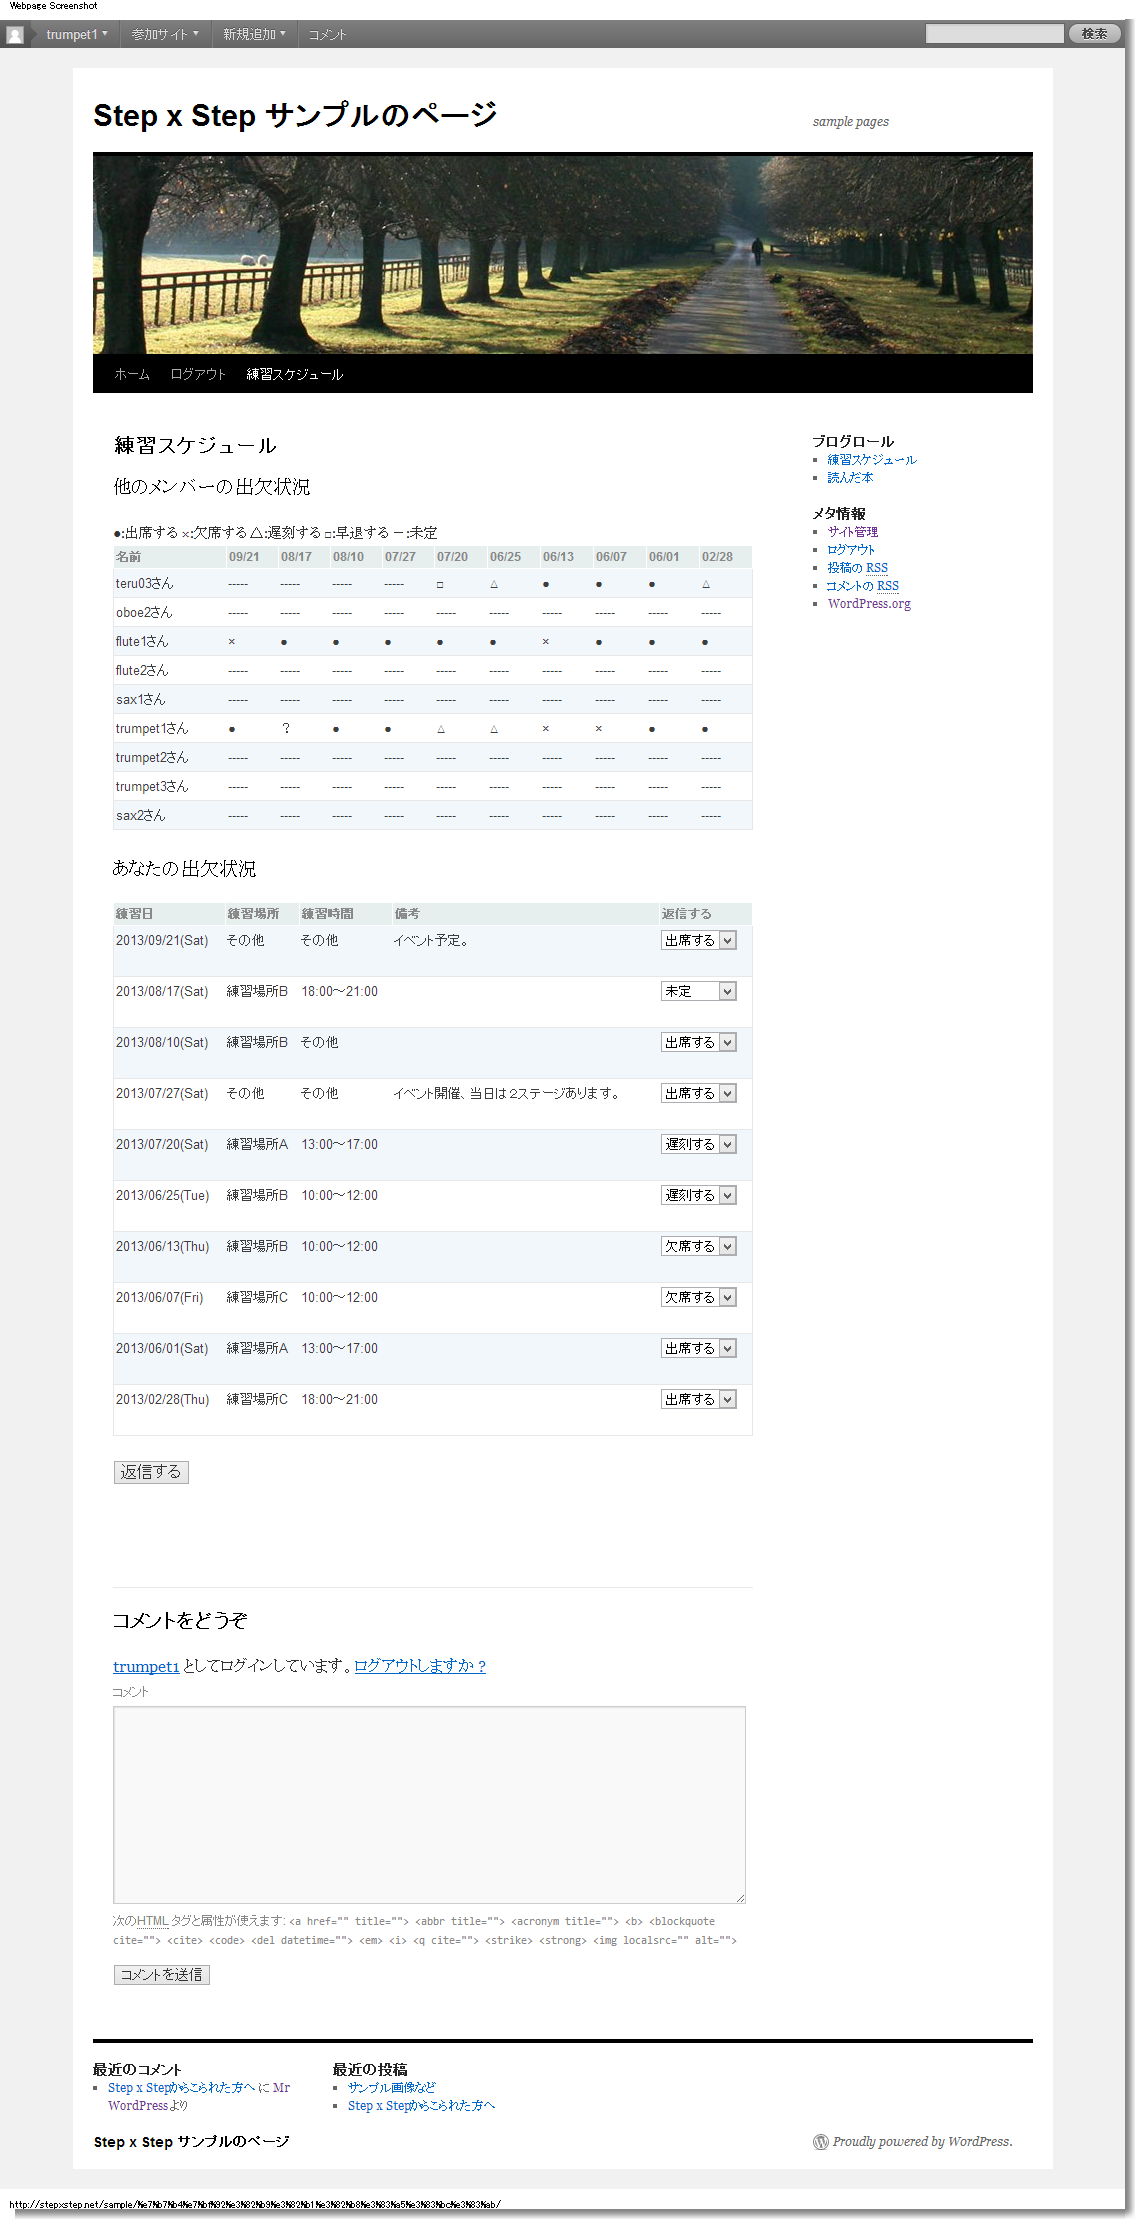
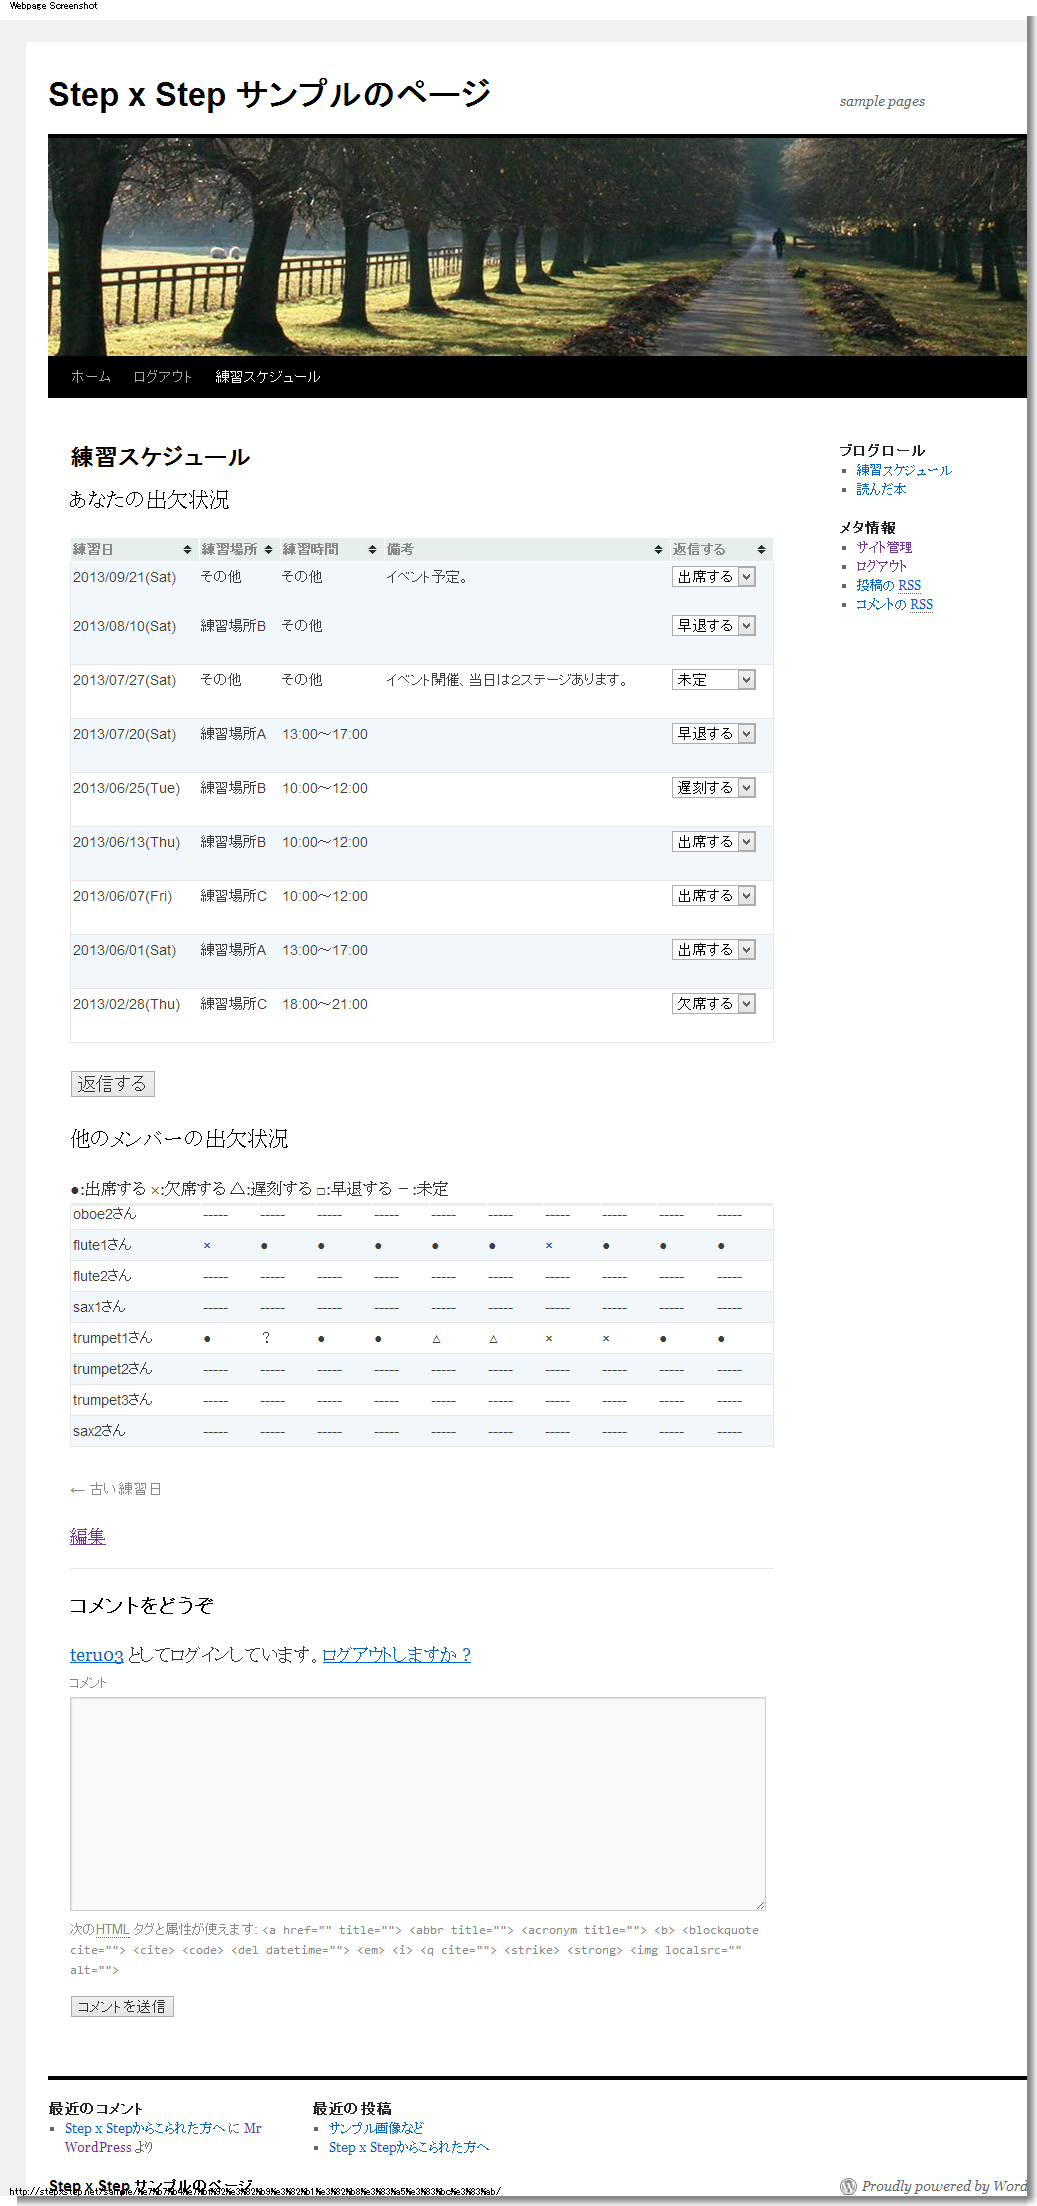
version 1.1.0
git-svn-id: https://plugins.svn.wordpress.org/lesson-scheduler/trunk@750095 b8457f37-d9ea-0310-8a92-e5e31aec5664

diff --git a/css/lesson_scheduler.css b/css/lesson_scheduler.css
@@ -88,3 +88,45 @@ table.tablesorter-2 thead tr .headerSortDown, table.tablesorter-2 thead tr .head
 background-color: #8dbdd8;
 }
 
+/* Navigation
+-------------------------------------------------------------- */
+
+.navigation {
+	color: #888;
+	font-size: 14px;
+	line-height: 18px;
+	overflow: hidden;
+}
+.navigation a:link,
+.navigation a:visited {
+	color: #888;
+	text-decoration: none;
+}
+.navigation a:active,
+.navigation a:hover {
+	color: #ff4b33;
+}
+.nav-previous {
+	float: left;
+	width: 50%;
+}
+.nav-next {
+	float: right;
+	text-align: right;
+	width: 50%;
+}
+#nav-above {
+	margin: 0 0 18px 0;
+}
+#nav-above {
+	display: none;
+}
+.paged #nav-above,
+.single #nav-above {
+	display: block;
+}
+#nav-below {
+	margin-top: 20;
+}
+
+

diff --git a/lesson_scheduler_mobile.php b/lesson_scheduler_mobile.php
@@ -1,0 +1,156 @@
+<?php
+
+function disp_lesson_scheduler_mobile() {
+
+
+	//クエリーによりカスタム投稿読み込み
+	
+	//1度に10件表示
+	$lesson_schedule_per_page = 10;
+	
+	//複数ページの場合に、選択されたページを取得
+	$paged = get_query_var('paged');
+	query_posts( "posts_per_page=$lesson_schedule_per_page&paged=$paged&post_type=lesson_schedules&orderby=meta_value&meta_key=lesson_schedule_field1" );
+	
+	global $wp_query;
+	
+	//記事があれば投稿データをロード（表示はしない） 
+ 	if ( have_posts() ){ 
+		the_post(); 
+	}
+	else{
+		echo _e('NOT FOUND','lesson-scheduler');
+	}
+
+	/* 投稿を巻き戻し */
+	rewind_posts();
+
+?>
+<form action="" method="POST">
+<dl>
+	<!-- タイトルの表示 -->
+	<h3><?php _e('schedule','lesson-scheduler') ?></h3>
+	<hr>
+	<!-- 練習ループ -->
+	<?php while ( have_posts() ){
+	
+	 	the_post();
+
+		$cu = wp_get_current_user();
+
+		//送信ボタンが押されたかつ、その時のIDと同一ならば登録
+		if ($_POST['syuketu'.get_the_ID()] != '' && strcmp( $_POST['id'.get_the_ID()], get_the_ID()) == 0 ) {
+			delete_post_meta( get_the_ID(),  $cu->user_login ); 
+			update_post_meta( get_the_ID(),  $cu->user_login, $_POST['syuketu'.get_the_ID()]);
+		}
+
+		$post = get_post($post_id);
+		/* lesson_dateをキーとして、練習日を取得 */
+	    $lesson_date = get_post_custom_values('lesson_schedule_field1',$post->ID);
+	    if( $lesson_date  ){
+
+			echo  date("y/m/d",strtotime($lesson_date[0]));
+			echo '(';
+			echo strftime( '%a', strtotime( $lesson_date[0] ) );
+			echo ')';
+	    	echo( '<br>');
+	    }
+
+		/* lesson_timeをキーとして、練習時間を取得 */
+	    $lesson_time = get_post_custom_values('lesson_schedule_field2',$post->ID);
+	    if( $lesson_time  ){
+            echo( $lesson_time[0] );
+	    	echo( '<br>');
+	    }
+	    
+		/* lesson_placeをキーとして、練習場所を取得 */
+	    $lesson_place = get_post_custom_values('lesson_schedule_field3',$post->ID);
+	    if( $lesson_place  ){
+            echo( $lesson_place[0] );
+	    	echo( '<br>');
+	    }
+	    /* remarksをキーとして、備考を取得 */
+	    $remarks = get_post_custom_values('lesson_schedule_field4',$post->ID);
+	    if( $remarks  ){
+            echo( $remarks[0] );
+	    	echo( '<br>');
+		}
+		
+	    ?><?php if(  is_user_logged_in() ) : ?>
+	    	<!--出欠状況 -->
+		    <td>
+				<select name="syuketu<?php echo get_the_ID() ?>" size="1">
+				<?php echo selectReply( get_the_ID(), $cu ); ?>
+				</select>
+
+				<input type="hidden" readonly="readonly" name="id<?php echo get_the_ID() ?>" value="<?php echo get_the_ID() ?>" />
+			</td>
+		<?php endif; ?><?php
+
+		//出席人数表示
+		dispAttendUser();
+
+	    echo('<hr>');
+
+	} ?>
+
+    <?php if(  is_user_logged_in() ) : ?>
+		<!-- 出欠ボタン -->
+		<BR><input type="submit" name="reply" value=<?php _e('reply','lesson-scheduler'); ?> /><BR>
+	<?php endif; ?>
+
+
+<!-- 前の記事と後の記事へのリンクを表示 -->
+<?php
+
+if ( $wp_query->max_num_pages > 1 ) : ?>
+	<BR>
+	<div id="nav-below" class="navigation">
+		<div class="nav-previous"><?php next_posts_link( __( '<span class="meta-nav">&larr;</span> Older lessons' ,'lesson-scheduler' ) ); ?></div>
+		<div class="nav-next"><?php previous_posts_link( __( 'Newer lessons <span class="meta-nav">&rarr;</span>' ,'lesson-scheduler' ) ); ?></div>
+	</div><!-- #nav-below -->
+	<BR>
+<?php endif; ?>
+
+</dl>
+
+<?php
+
+	wp_reset_query();
+
+}
+
+/* 出席者表示
+-----------------------------------------------------------*/
+function dispAttendUser(){
+
+	$attend = 0;
+	$absence = 0;
+	$late = 0;
+	$early = 0;
+	$undecided = 0;
+	
+	//全ユーザー情報の取得
+	$users = get_users_of_blog();
+	
+	foreach ( $users as $users ){
+
+		//出欠状況の出力
+		$value = get_post_meta(get_the_ID(), $users->user_login, true);
+		if( strcmp($value,"attend") == 0 ){
+			$attend++;	//出席
+		}elseif( strcmp($value,"absence") == 0 ){
+			$absence++;	//欠席
+		}elseif( strcmp($value,"late") == 0 ){
+			$late++;	//遅刻
+		}elseif( strcmp($value,"early") == 0 ){
+			$early++;	//早退
+		}elseif( strcmp($value,"undecided") == 0 ){
+			$undecided++;	//未定
+		}
+	}
+
+	echo "●:".$attend." ×:".$absence." △:".$late." □:".$early." ？:".$undecided;	
+}
+
+?>

diff --git a/lesson_scheduler.php b/lesson_scheduler.php
@@ -1,11 +1,11 @@
-<?php
+<?php
 /*
 Plugin Name: Lesson Scheduler
 Plugin URI: 
 Description: Just another lesson schedule manegement plugin. Simple UI and look.
 Author: Teruo Morimoto
 Author URI: http://stepxstep.net/
-Version: 1.0.0
+Version: 1.1.0
 */
 
 /*  Copyright 2013 Teruo Mormoto (email : terusun at gmail.com)
@@ -26,6 +26,8 @@ Version: 1.0.0
 	//設定画面処理用ファイル読み込み
 	include_once dirname( __FILE__ ) . '/lesson_scheduler_options.php';
 
+	//モバイル処理用ファイル読み込み
+	include_once dirname( __FILE__ ) . '/lesson_scheduler_mobile.php';
 
 /*  カスタム投稿タイプ（lesson scheduler）の登録
 -----------------------------------------------------------*/
@@ -199,7 +201,14 @@ function lesson_schedule_meta_update($post_id){
 -----------------------------------------------------------*/
 add_shortcode('lesson scheduler', 'disp_lesson_scheduler');
 function disp_lesson_scheduler($atts) {
-
+	if( chk_mobile() ){
+		disp_lesson_scheduler_mobile();
+	}
+	else{
+		disp_lesson_scheduler_pc();
+	}
+}
+function disp_lesson_scheduler_pc(){
 	
 	//クエリーによりカスタム投稿読み込み
 	
@@ -223,23 +232,15 @@ function disp_lesson_scheduler($atts) {
 	/* 投稿を巻き戻し */
 	rewind_posts();
 	
-
 ?>
-
 <div class="lesson_scheduler" >
 
 <form action="" method="POST">
-<h3><?php _e('others status','lesson-scheduler'); ?></h3>
 <?php if(  is_user_logged_in() ) : ?>
-	<table border="1" class="tablesorter-1">
-		<?php
-			//全ユーザーの出欠状況を表示
-			dispAllUser(); 
-		 ?>
-	</table>	
+	<h3><?php _e('your status','lesson-scheduler'); ?></h3>
+<?php else : ?>
+	<h3><?php _e('schedule','lesson-scheduler'); ?></h3>
 <?php endif; ?>
-
-<h3><?php _e('your status','lesson-scheduler'); ?></h3>
 <div class="tablelesson-2">
 	<table border="1" class="tablesorter-2">
 		<!-- タイトル行の表示 -->
@@ -339,6 +340,16 @@ function disp_lesson_scheduler($atts) {
 		<input type="submit" name="reply" value=<?php _e('reply','lesson-scheduler'); ?> />
 	<?php endif; ?>
 
+	<?php if(  is_user_logged_in() ) : ?>
+		<h3><?php _e('others status','lesson-scheduler'); ?></h3>
+		<table border="1" class="tablesorter-1">
+			<?php
+				//全ユーザーの出欠状況を表示
+				dispAllUser(); 
+			 ?>
+		</table>	
+	<?php endif; ?>
+
 </div>
 </form>
 
@@ -346,18 +357,16 @@ function disp_lesson_scheduler($atts) {
 <?php  if (  $wp_query->max_num_pages > 1 ) : ?>
 	<br>
 	<div id="nav-below" class="navigation">
-		<div class="nav-previous"><?php next_posts_link( __( '<span class="meta-nav">&larr;</span> Older lessons' ),'lesson-scheduler' ); ?></div>
-		<div class="nav-next"><?php previous_posts_link( __( 'Newer lessons <span class="meta-nav">&rarr;</span>' ),'lesson-scheduler' ); ?></div>
+		<div class="nav-previous"><?php next_posts_link( __( '<span class="meta-nav">&larr;</span> Older lessons' ,'lesson-scheduler' ) ); ?></div>
+		<div class="nav-next"><?php previous_posts_link( __( 'Newer lessons <span class="meta-nav">&rarr;</span>' ,'lesson-scheduler' ) ); ?></div>
 	</div><!-- #nav-below -->
 	<br>
 <?php endif; ?>
 
-
 </div>
-
 <?php
+
 	wp_reset_query();
-	
 
 }
 
@@ -564,5 +573,19 @@ function myplugin_admin_menu() {
 	echo '<link rel="stylesheet" href="http://code.jquery.com/ui/1.10.3/themes/smoothness/jquery-ui.css" />'."\n";
 }
 add_action('admin_head', 'myplugin_admin_menu');
+
+/* モバイルかどうかをチェックする 
+-----------------------------------------------------------*/
+function chk_mobile(){
+
+	//モバイルモードを利用しない場合はfalse
+	if( get_option('lesson_scheduler_cb_3') != '1' )return false;
+
+	$mobile = false;
+	if (strpos($_SERVER['HTTP_USER_AGENT'],"iPhone") || strpos($_SERVER['HTTP_USER_AGENT'],"Android") ){
+		$mobile = true;
+	}
+	return $mobile;
+}
 
 ?>

diff --git a/lesson_scheduler_options.php b/lesson_scheduler_options.php
@@ -52,6 +52,12 @@
 			<tr><td><input type="checkbox" name="lesson_scheduler_cb_2" value="1" /><?php _e( 'print past schedules','lesson-scheduler') ?></td></tr>
 		<?php endif; ?>
 
+		<?php if( get_option('lesson_scheduler_cb_3') == '1' ) : ?>
+			<tr><td><input type="checkbox" name="lesson_scheduler_cb_3" value="1" checked="checked"/><?php _e( 'used mobile phone mode','lesson-scheduler') ?></td></tr>
+		<?php else : ?>
+			<tr><td><input type="checkbox" name="lesson_scheduler_cb_3" value="1" /><?php _e( 'used mobile phone mode','lesson-scheduler') ?></td></tr>
+		<?php endif; ?>
+
 	</table>
 	<input type="hidden" name="action" value="update" />
 	<input type="hidden" name="page_options" value="<?php get_alloption();?>"/>
@@ -63,7 +69,7 @@
 	</form>
 </div>
 <?php }
-
+//オプション用変数をすべてつなげる
 function get_alloption()
 {
 	for( $i=1; $i<=10; $i++ ){
@@ -74,7 +80,7 @@ function get_alloption()
 		$str = $str."lesson_scheduler_time_".$i.",";
 	}
 	
-	$str = $str."lesson_scheduler_cb_1,lesson_scheduler_cb_2";
+	$str = $str."lesson_scheduler_cb_1,lesson_scheduler_cb_2,lesson_scheduler_cb_3";
 	
 	echo $str;
 }
